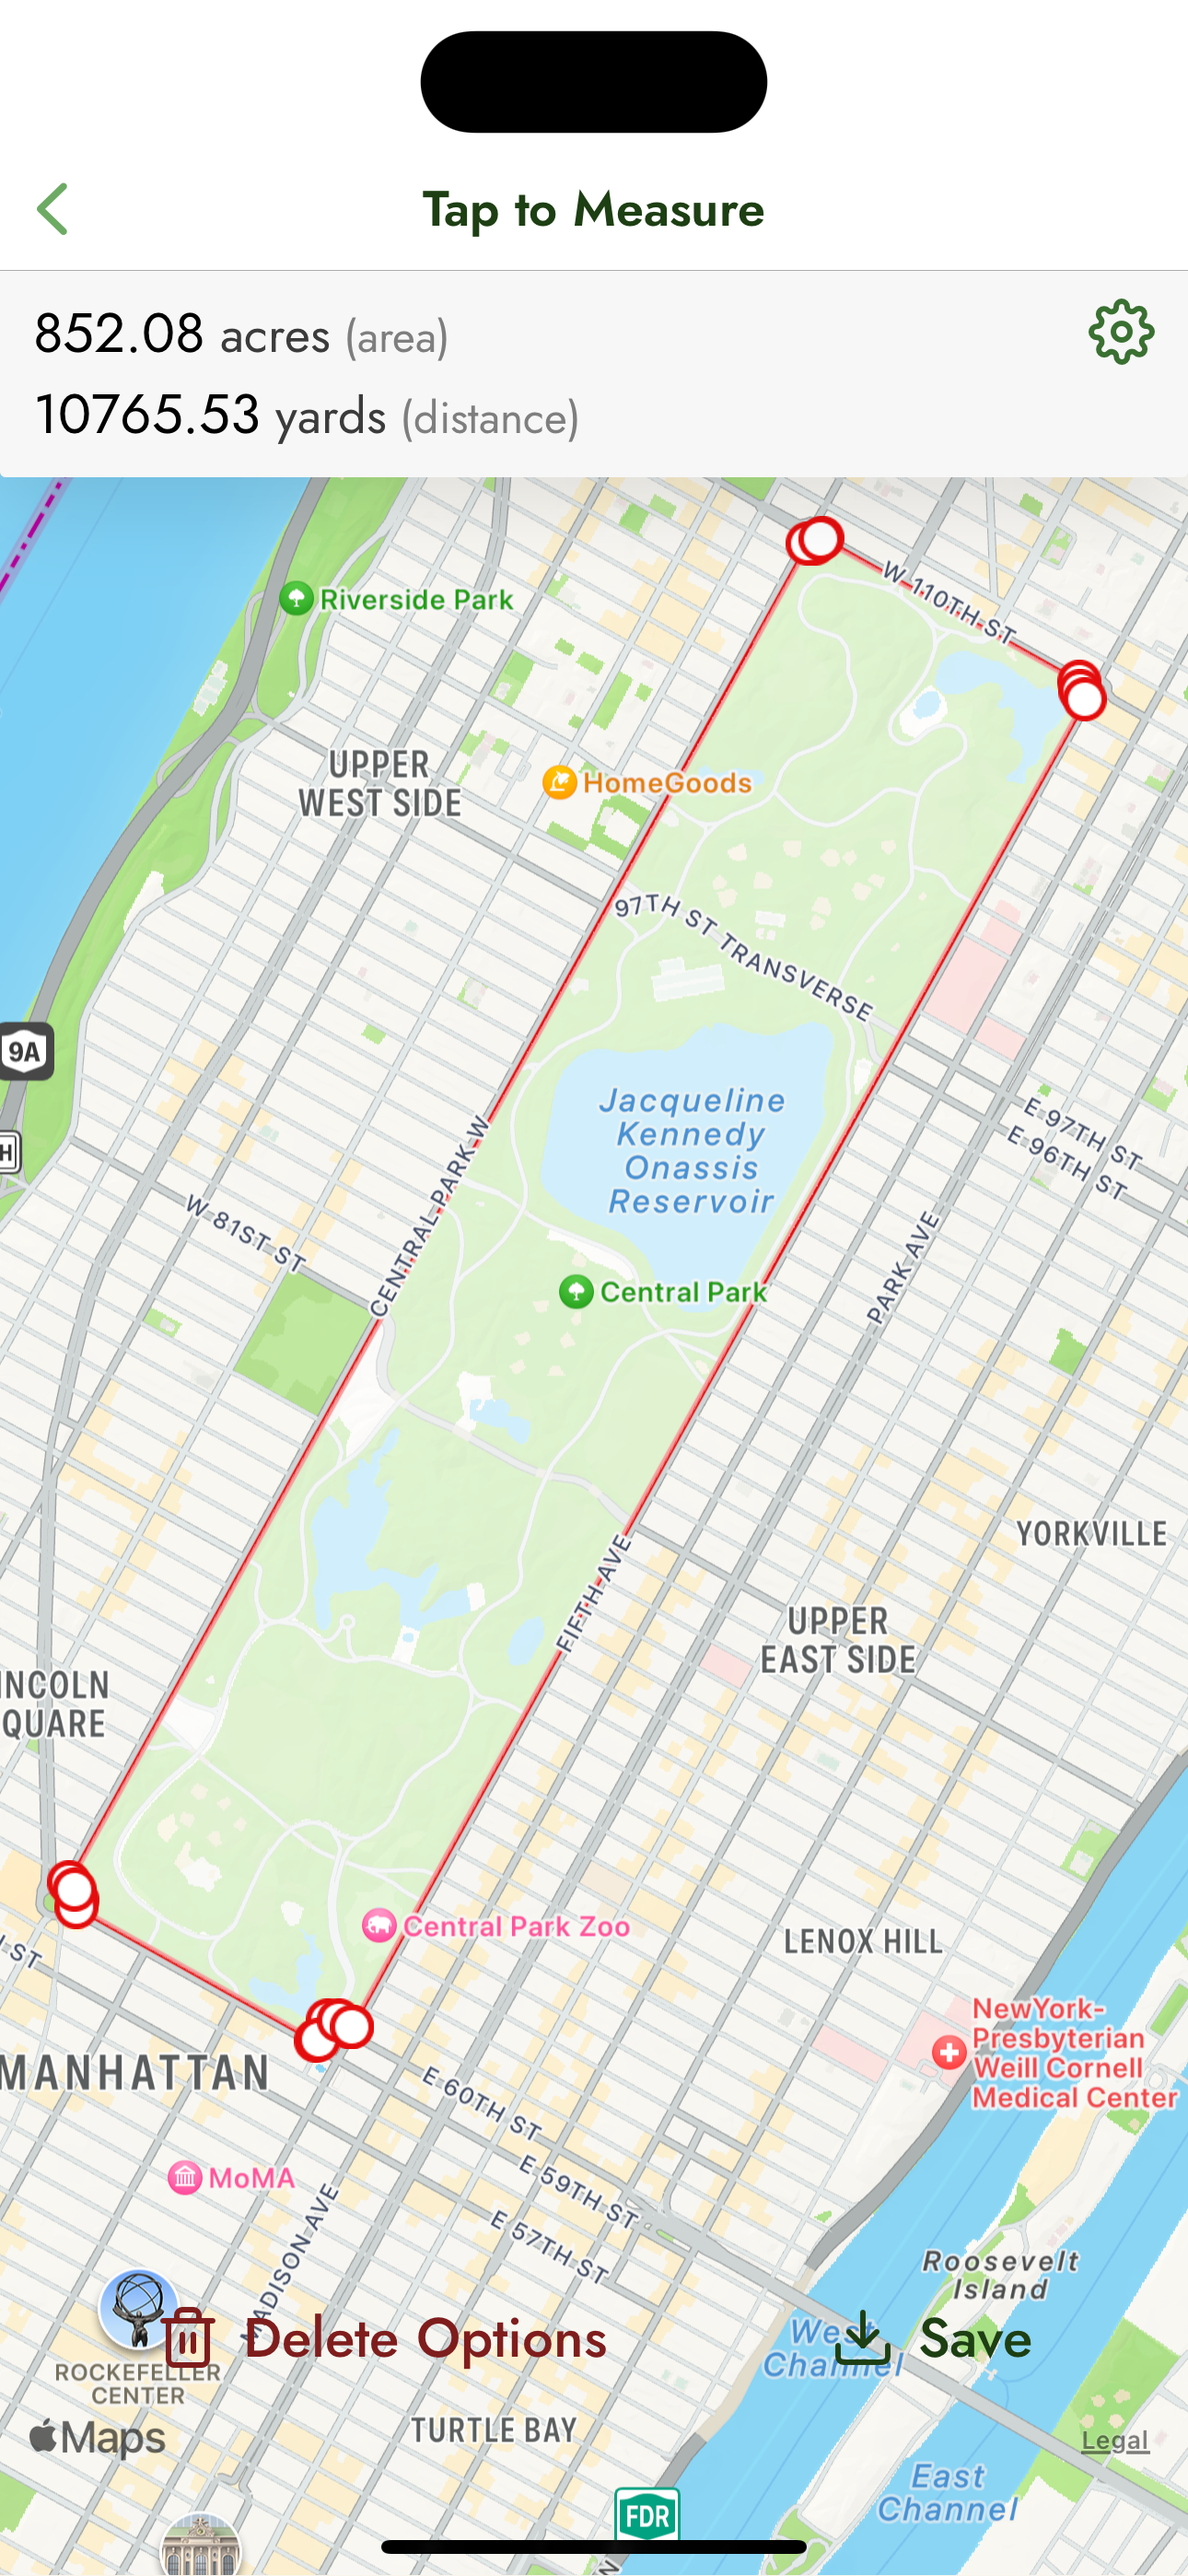
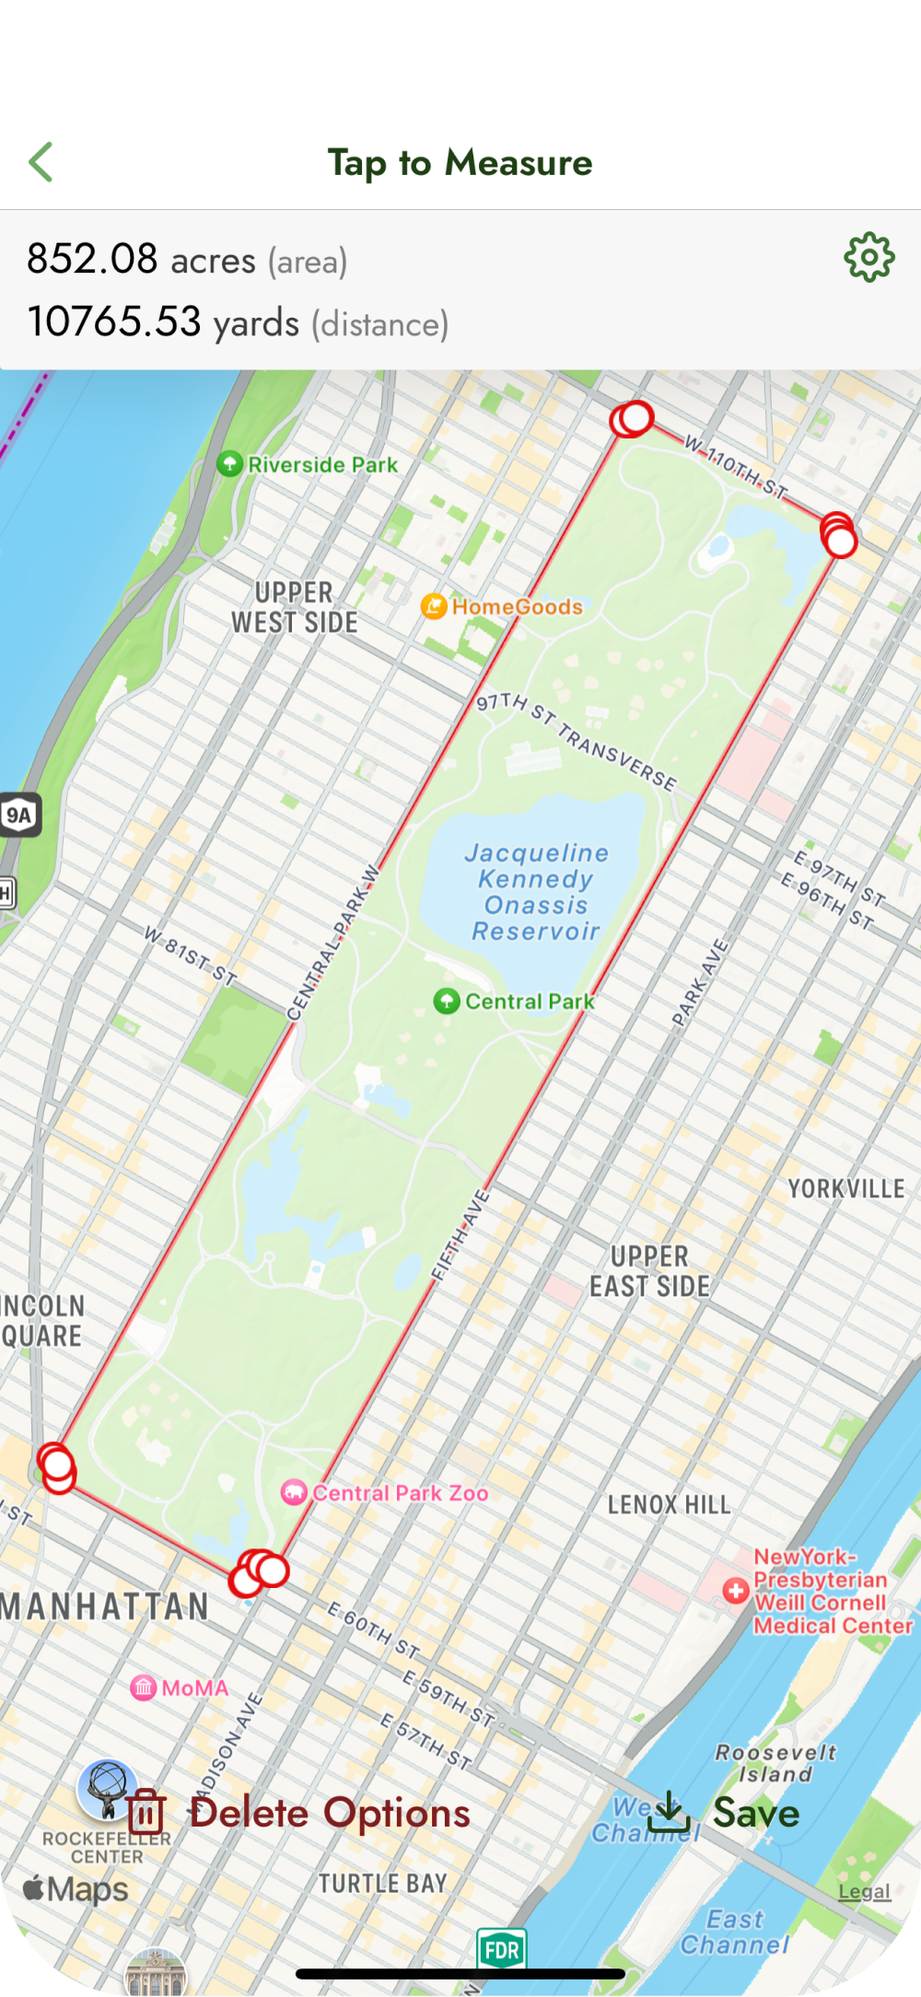
updated quick measure images

diff --git a/src/components/Projects/Project.jsx b/src/components/Projects/Project.jsx
@@ -83,7 +83,7 @@ export default function Project({ project, stackArr, isDark }) {
                   {project.mobileAppImages.map((image, index) => (
                     <div key={index}>
                       <div className='xs:w-full md:inline' style={{filter: `drop-shadow(0px 2px 3px ${project.color})`}}>
-                        <img src={image} className='rounded-xl sm:rounded-2xl md:rounded-3xl lg:rounded-5xl' />
+                        <img src={image} />
                       </div>
                     </div>
                   ))}

diff --git a/src/components/Projects/ProjectDescriptions.js b/src/components/Projects/ProjectDescriptions.js
@@ -15,7 +15,6 @@ import jobNotebookBrowser from '../../assets/project-visuals/job-notebook-browse
 import quickMeasureAuto from '../../assets/project-visuals/quick-measure-auto.png'
 import quickMeasureTap from '../../assets/project-visuals/quick-measure-tap.png'
 import quickMeasureSaving from '../../assets/project-visuals/quick-measure-saving.png'
-import quickMeasureSaved from '../../assets/project-visuals/quick-measure-saved.png'
 import quickMeasureHome from '../../assets/project-visuals/quick-measure-home.png'
 
 
